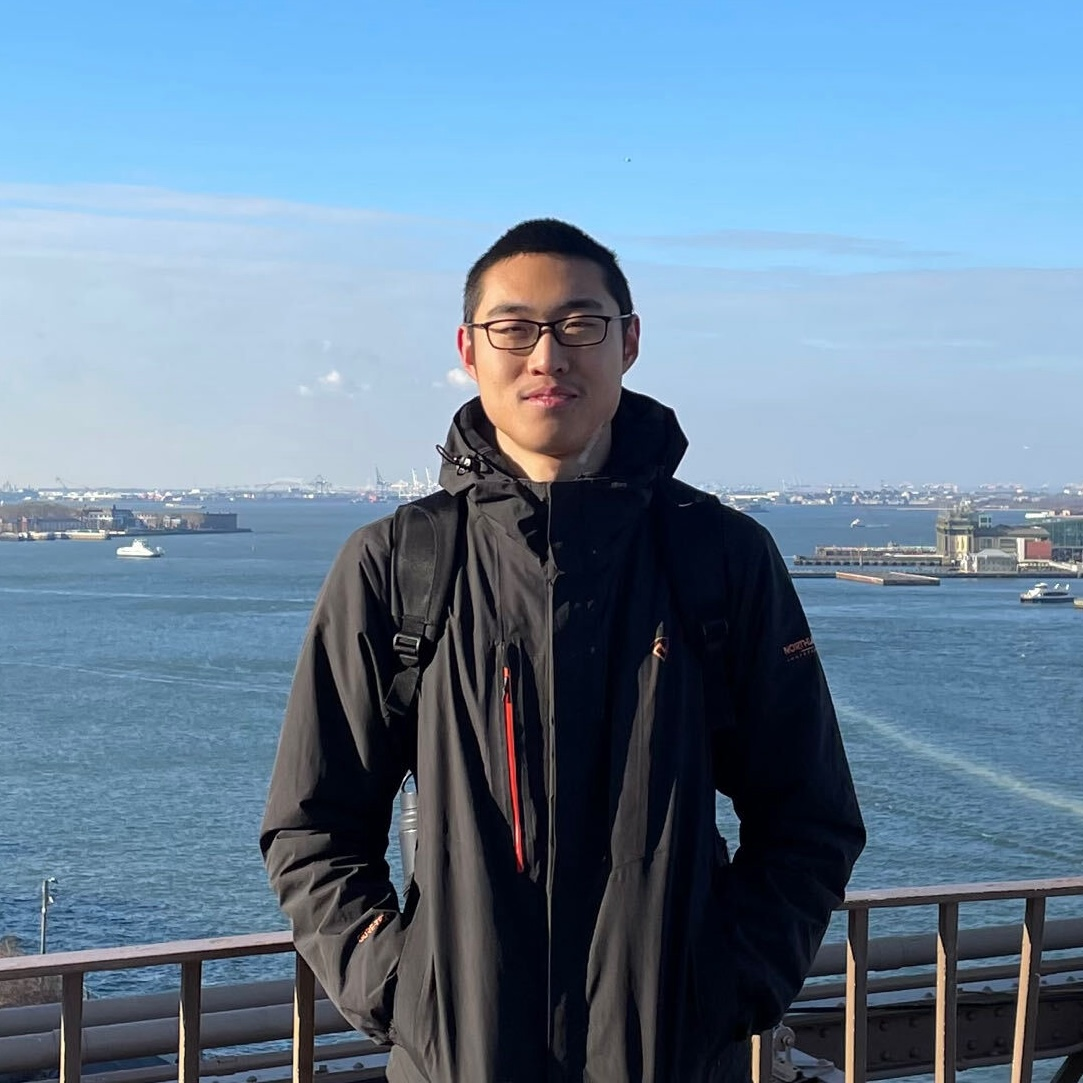
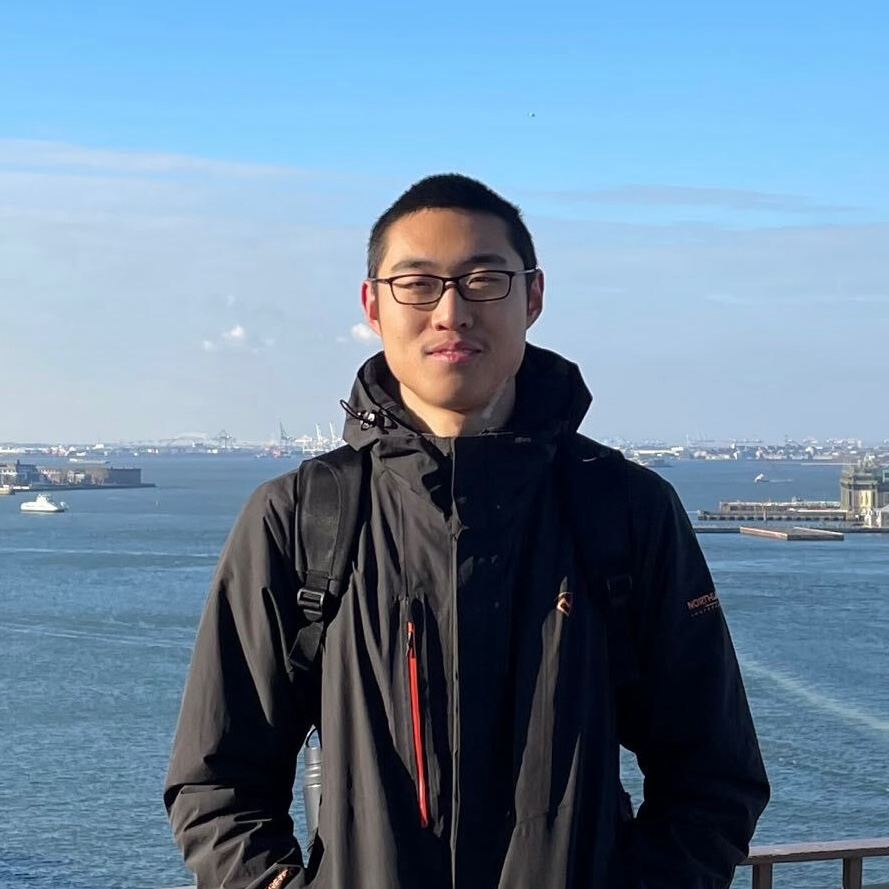
added sunny

diff --git a/docs/index.html b/docs/index.html
@@ -1058,6 +1058,39 @@ The Causality in Cognition Lab at Stanford University studies the role of causal
     </div>
   
     <div class= 'people-container'>
+    <h2>Sunny Yu</h2>
+    <p style='font-weight:bold;'>Research Assistant</p>
+    <div class='people-image-container'>
+      
+        
+          <img class='people-image' src="img/members/sunny_yu.jpg" alt="Drawing" />
+        
+       
+      <div class='social-links'>
+        
+    
+        <a href="mailto:syu03@stanford.edu" title="E-Mail" target="_top">
+    <i class="fas fa-envelope big-icon"></i>
+    </a> 
+     
+    
+        <span class="stretch"></span>
+      </div>
+    </div>
+    <div class='people-description'>
+      <p>
+      <span>I am interested in using different methods to explore social cognition, interpersonal interactions, and understanding the mind. I also enjoy reading, writing, and staying active.</span>
+      <br>
+      
+      
+      
+      </p>
+      <br>
+    </div>
+    <div class = 'spacer'></div>
+    </div>
+  
+    <div class= 'people-container'>
     <h2>Xi Jia (Laura) Zhou</h2>
     <p style='font-weight:bold;'>Lab Affiliate</p>
     <div class='people-image-container'>

diff --git a/content/home/people.md b/content/home/people.md
@@ -154,6 +154,12 @@ weight = 3
     description = "I am interested in understanding how effectively language models can perform reasoning and comprehend commonsense and factual knowledge. Subsequently, with a better understanding of LLM’s cognitive abilities, I hope to build more cognitive-feasible and efficient language models at small scales. In my free time, I like running and sailing. I like lemonade."
 
 [[member]]
+    id = "Sunny Yu"
+    position = "Research Assistant"
+    email = "syu03@stanford.edu"
+    description = "I am interested in using different methods to explore social cognition, interpersonal interactions, and understanding the mind. I also enjoy reading, writing, and staying active."
+
+[[member]]
 	id = "Xi Jia (Laura) Zhou"
 	position = "Lab Affiliate"
 	image = "xi_jia_zhou.jpg"
